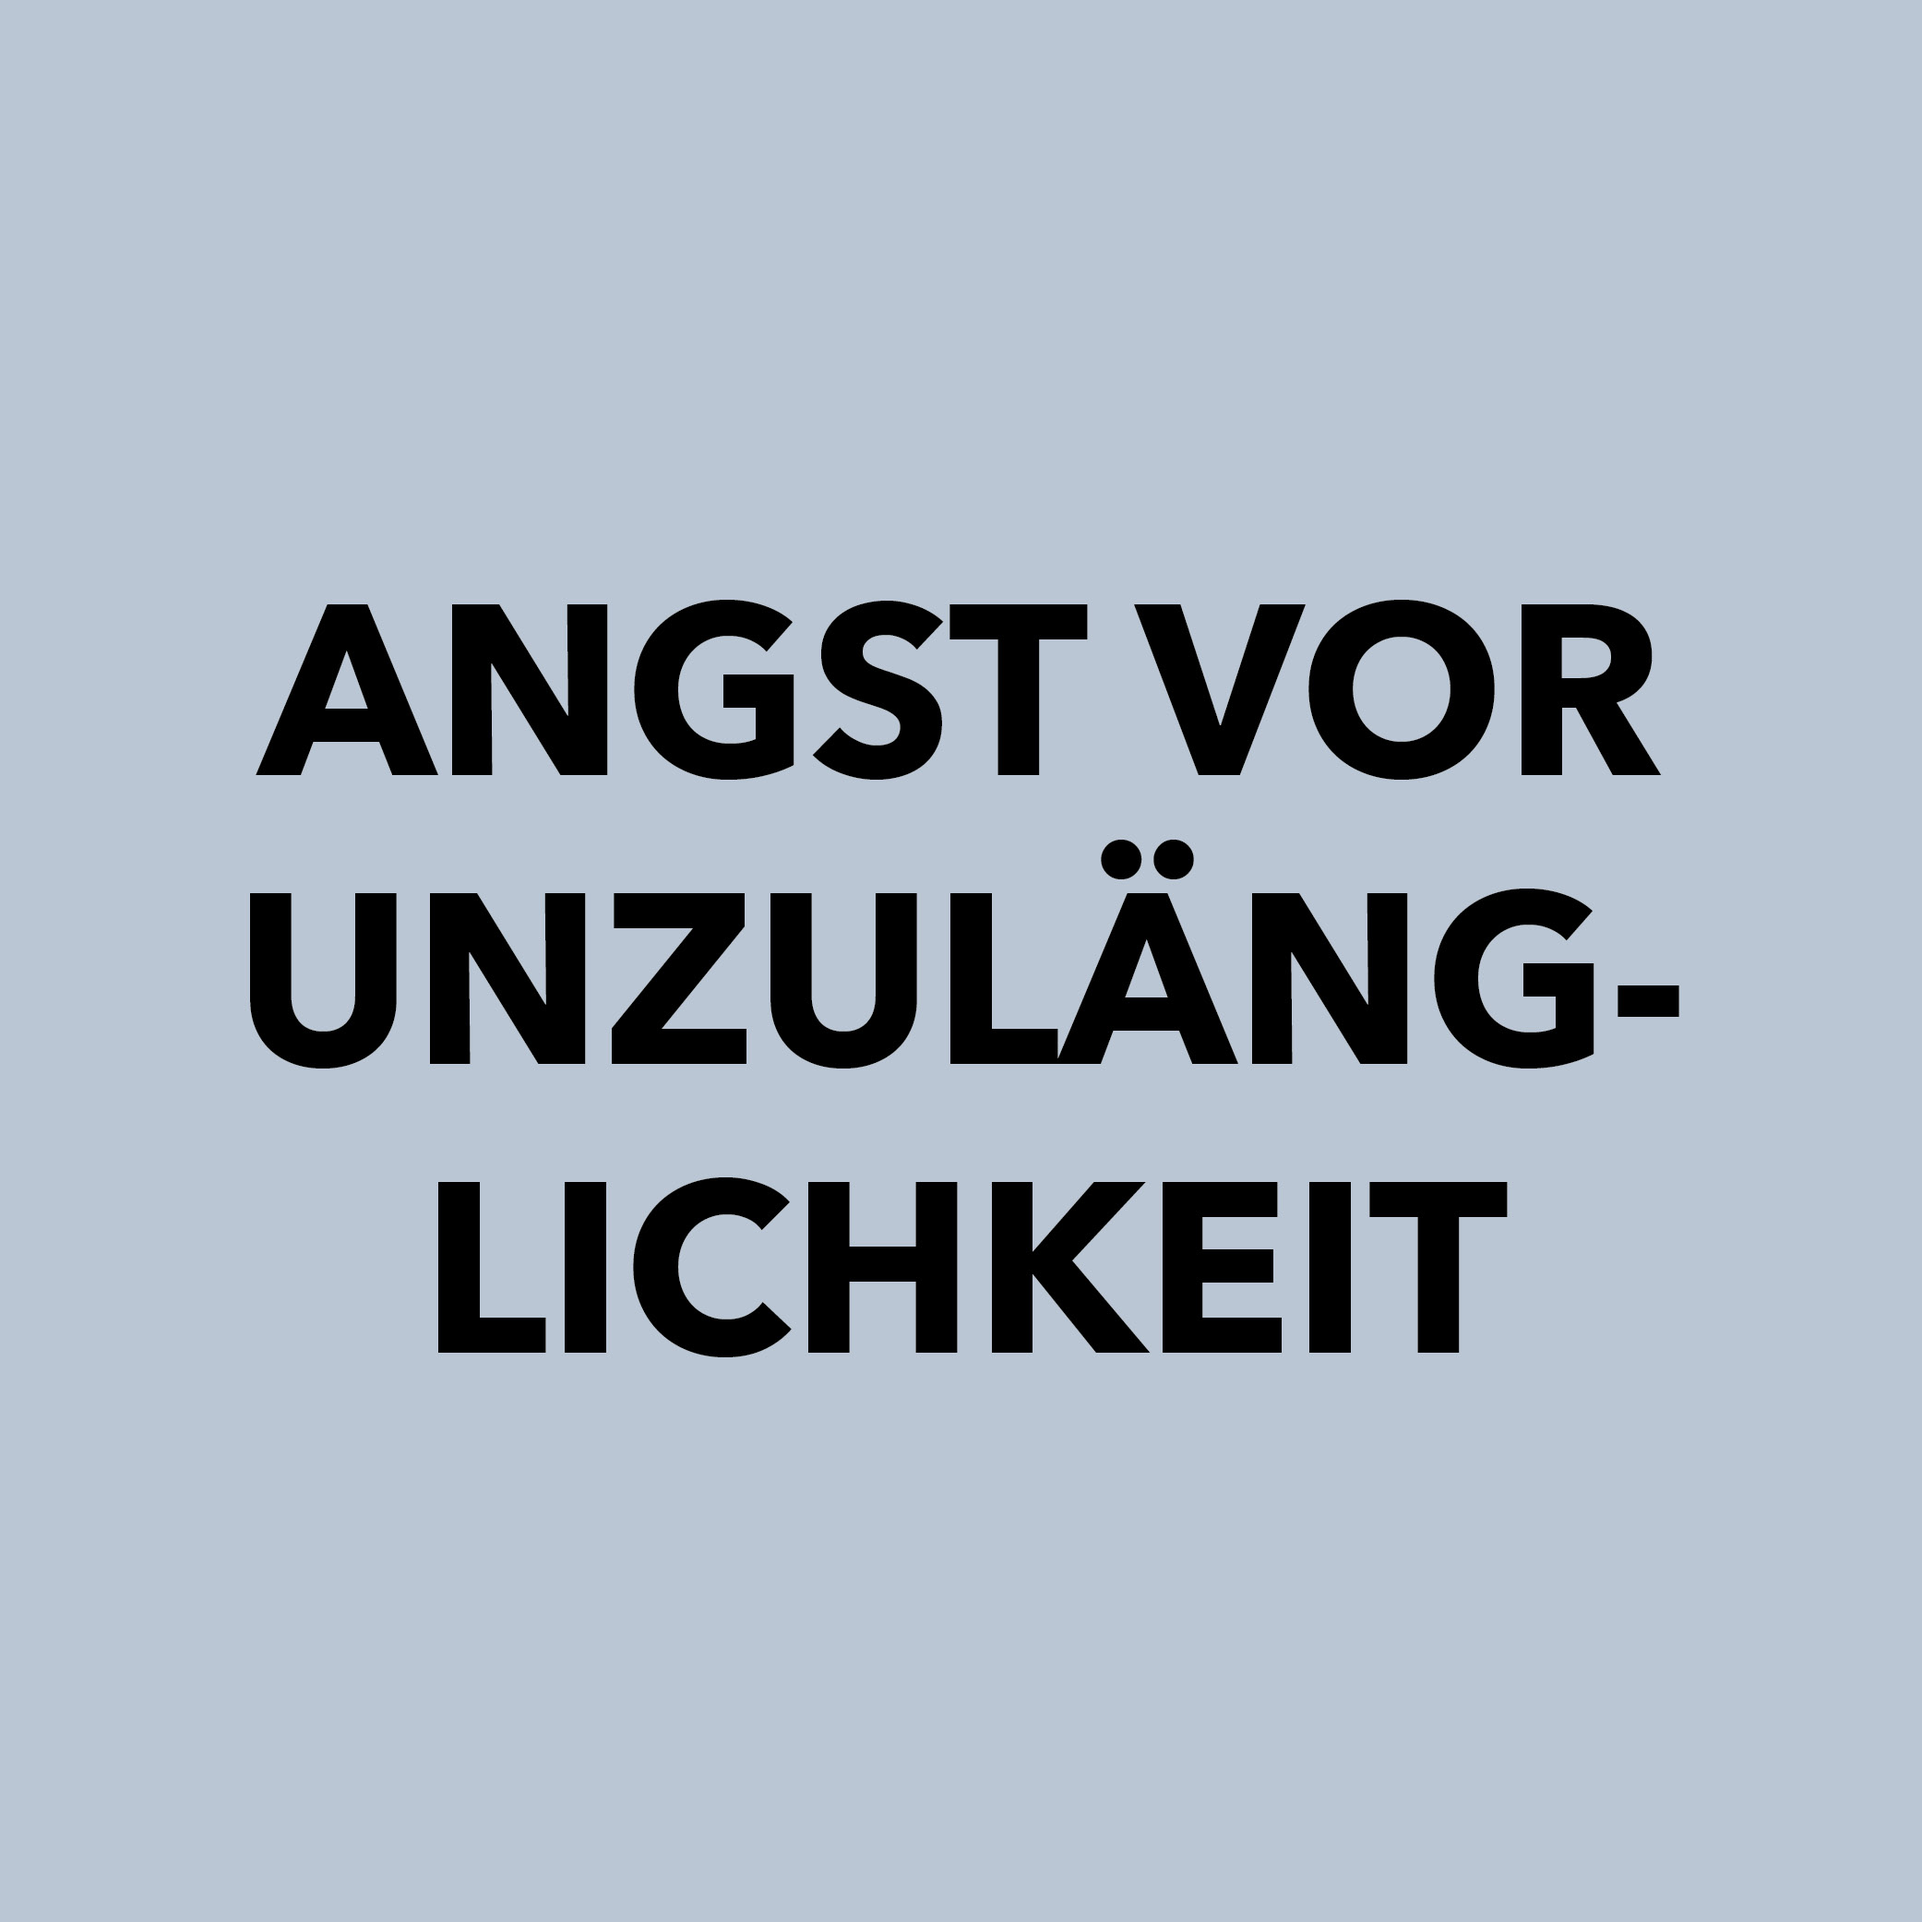
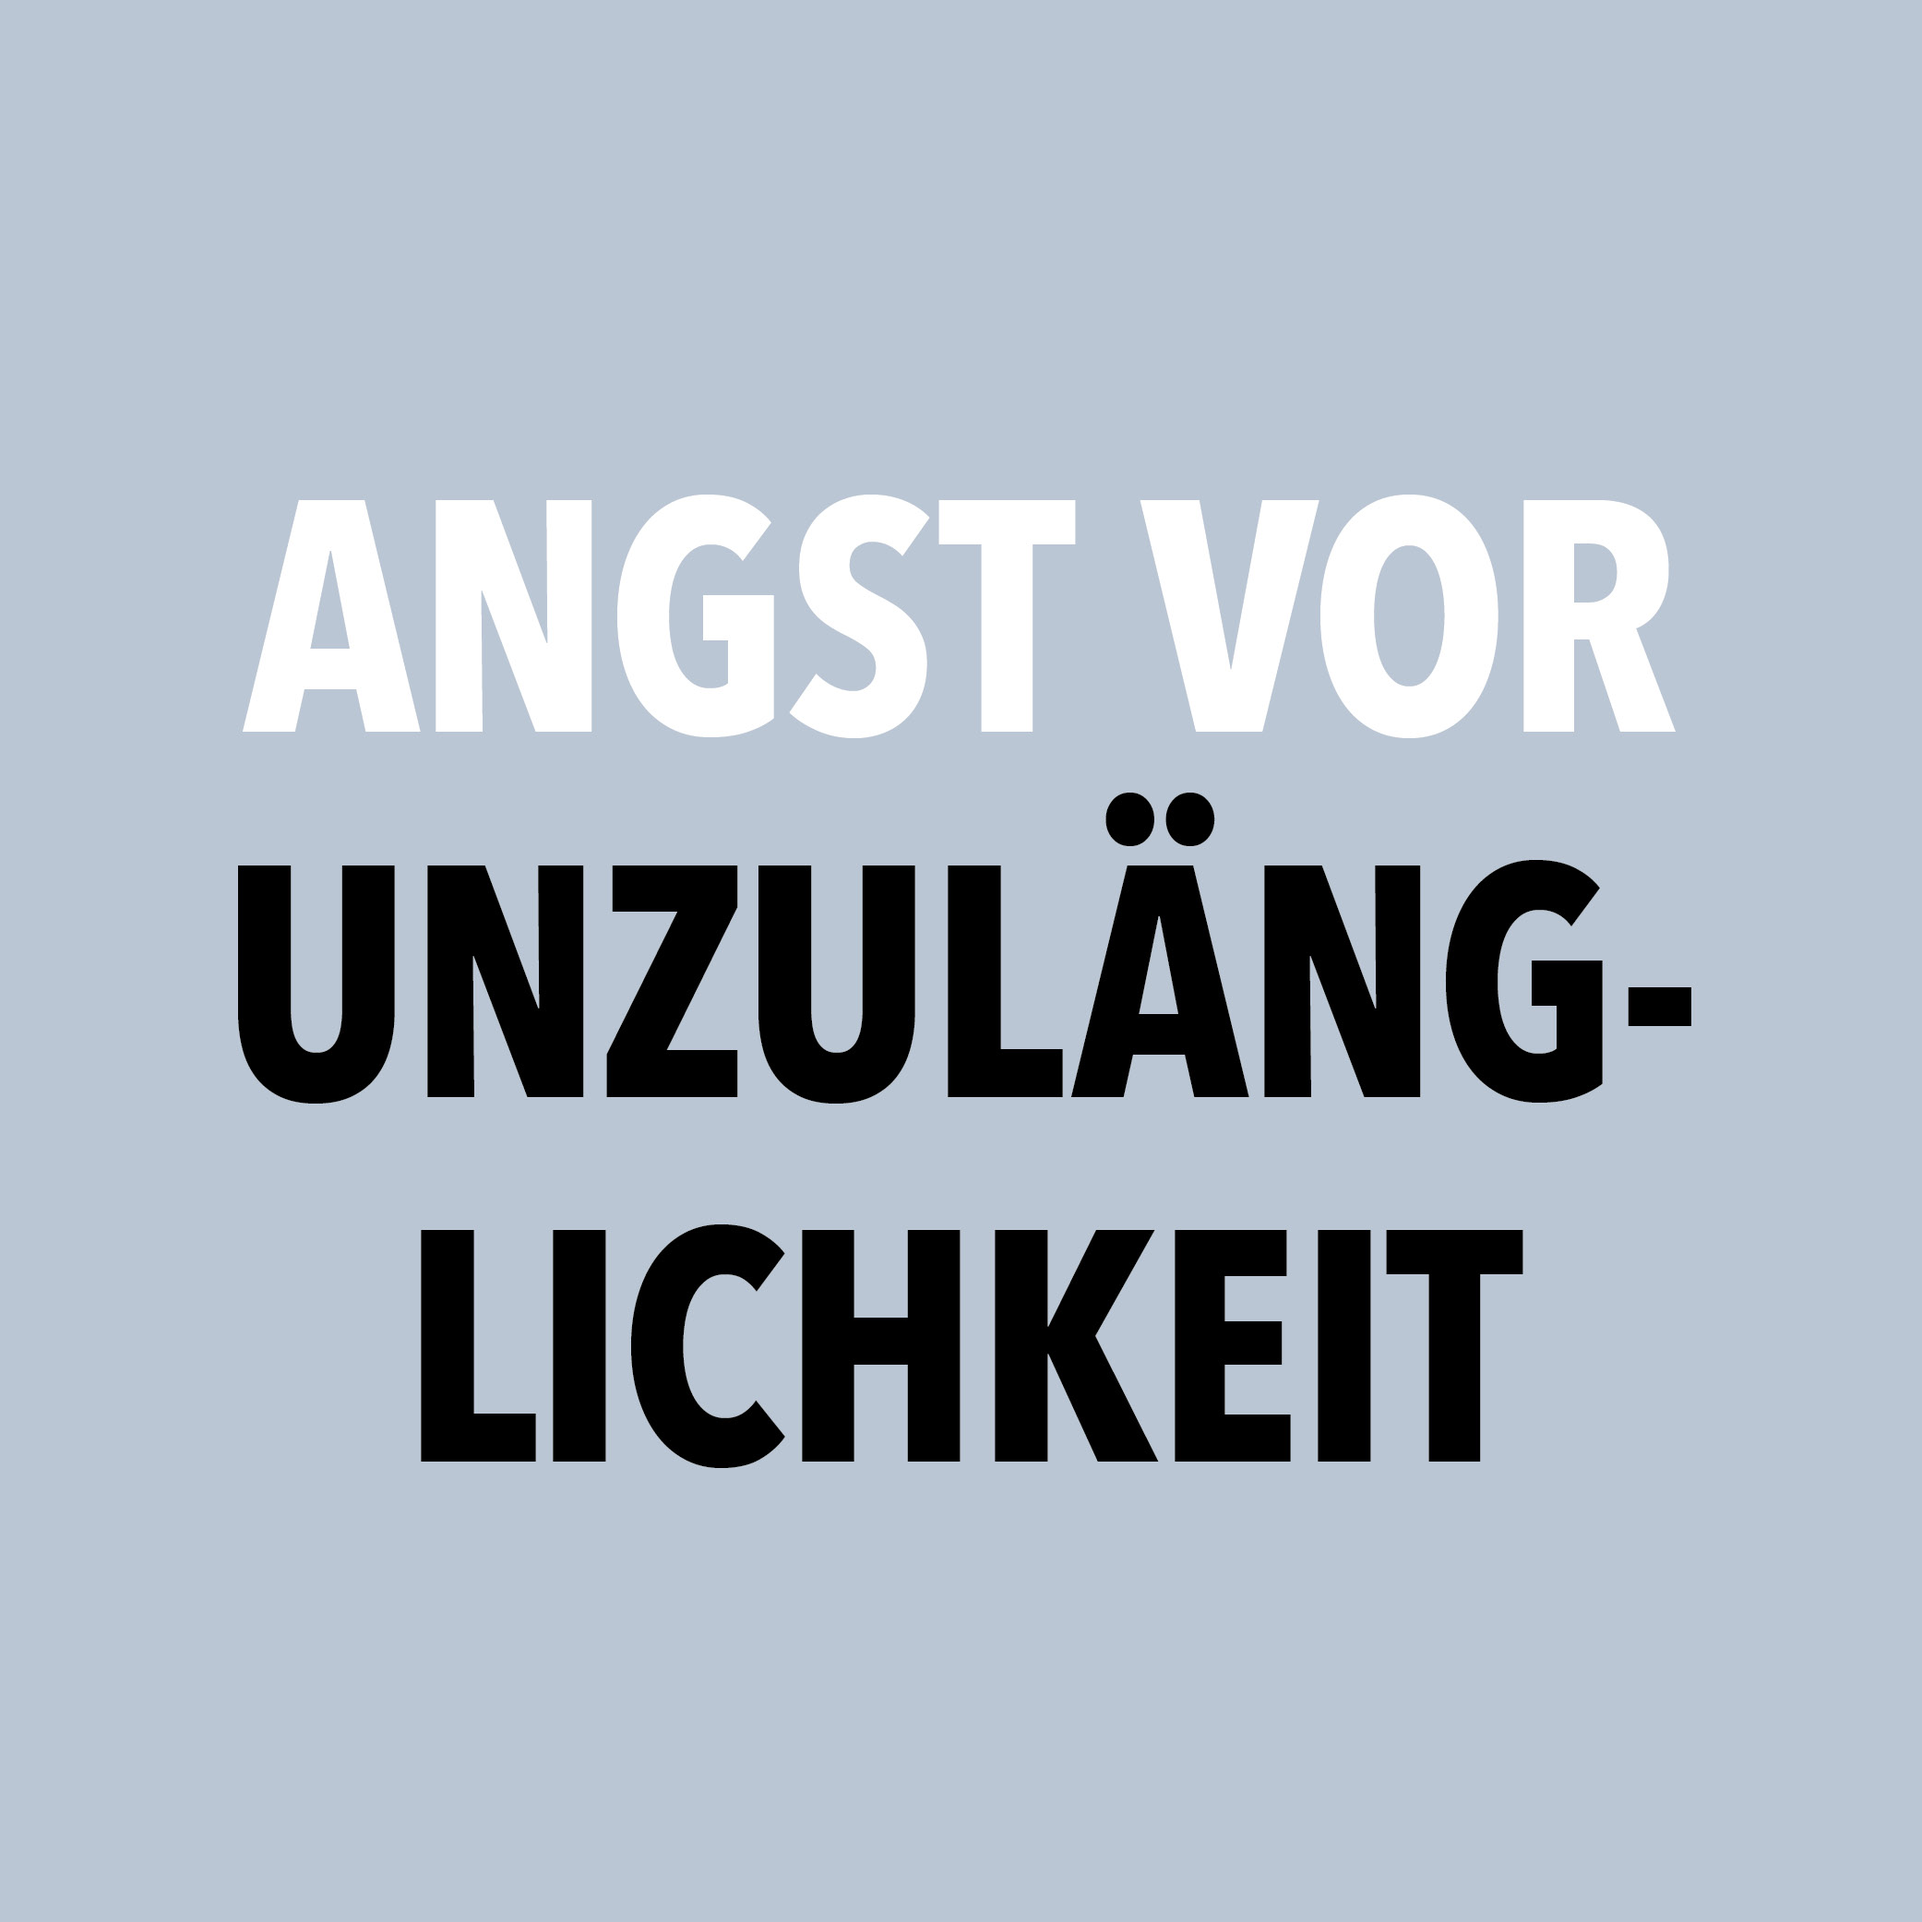
Add files via upload

Changed region(s): [[0.1248, 0.2496, 0.9049, 0.7801], [0.1248, 0.2496, 0.5617, 0.4057]]

diff --git a/style.css b/style.css
@@ -3,25 +3,27 @@ background-color: #000000;
 }
 
 h1{
-    margin-left: 35%;
+    color: #ffffff;    
     display: inline-block;
-    font-size: 40px;
     font-family:arial; 
-    color: #ffffff;
-    
+    font-size: 40px;
+    text-align: center;
+    margin-left: 35%;
+    margin-right: 30%;
+    text-align: center;
 }
 p{
+    color: #ffffff;
+    display: inline-block;
+    font-family:arial; 
+    font-size: 15px;
     margin-left: 20%;
     margin-right: 20%;
-    display: inline-block;
-    font-size: 15px;
-    font-family:arial; 
     text-align: center;
-    color: #ffffff;
 }
 img{
-    max-width: 100%;
     max-height: 100%;
+    max-width: 100%;
 }
 /*left*/
 .left-container{
@@ -29,10 +31,10 @@ img{
     position: relative;
 }
 .carousel-container{
-    width: 375px;
     height: 350px;
-    position: relative;
     overflow: hidden;
+    position: relative;
+    width: 375px;
 }
 
 .carousel-slide{
@@ -41,37 +43,39 @@ img{
 }
 
 #prevBtn{
-    margin-left: 45%;
-    font-size: 10px;
-    color: black;
-    width: 10%;
-    height:15%;
     border-radius: 50%;
-    opacity: 0.9;
+    color: black;
     cursor: pointer;
+    font-size: 10px;
+    height:15%;
+    margin-left: 45%;
+    margin-bottom: 10px;
+    opacity: 0.9;
+    width: 10%;
 }
 button:hover{
-    background-color:#ffd000;
+    background-color:#fff2c5;
     
 }
 #nextBtn{
-        z-index: 10;
-    margin-left: 45%;
-    font-size: 10px;
-    color: black;
-    width: 10%;
-    height:10%;
+    z-index: 10;
     border-radius: 50%;
-    opacity: 0.9;
+    color: black;
     cursor: pointer;
+    font-size: 10px;
+    height:10%;
+    margin-left: 45%;
+    margin-top: 10px;
+    opacity: 0.9;
+    width: 10%;
 }
 .middleCarousel-container{
-    width: 375px;
-    height: 350px;
     /* margin-left: 10%; */
     border: 0px solid black;
-    position: relative;
+    height: 350px;
     overflow: hidden;
+    position: relative;
+    width: 375px;
     
 }
 
@@ -80,33 +84,36 @@ button:hover{
 }
 
 #middlePrevBtn{
-    z-index: 10;
-    margin-left: 45%;
-    font-size: 10px;
-    color: black;
-    width: 10%;
-    height:10%;
     border-radius: 50%;
-    opacity: 0.9;
+    color: black;
     cursor: pointer;
+    font-size: 10px;
+    height:10%;
+    margin-left: 45%;
+    margin-bottom: 10px;
+    opacity: 0.9;
+    width: 10%;
+    z-index: 10;
+
 } 
 #middleNextBtn{
-    z-index: 10;
-    margin-left: 45%;
-    font-size: 10px;
-    color: black;
-    width: 10%;
-    height:10%;
     border-radius: 50%;
-    opacity: 0.9;
+    color: black;
     cursor: pointer;
+    font-size: 10px;
+    height:10%;
+    margin-left: 45%;
+    margin-top: 10px;
+    opacity: 0.9;
+    width: 10%;
+    z-index: 10;
 }
 .rightCarousel-container{
-    width: 375px;
-    height: 350px;
     border: 0px solid black;
-    position: relative;
+    height: 350px;
     overflow: hidden;
+    position: relative;
+    width: 375px;
     
 }
 
@@ -115,22 +122,24 @@ button:hover{
 }
 
 #rightPrevBtn{
-    margin-left: 45%;
-    font-size: 10px;
-    color: black;
-    width: 10%;
-    height:10%;
     border-radius: 50%;
-    opacity: 0.9;
+    color: black;
     cursor: pointer;
+    font-size: 10px;
+    height:10%;
+    margin-bottom: 10px;
+    margin-left: 45%;
+    opacity: 0.9;
+    width: 10%;
 }
 #rightNextBtn{
-    margin-left: 45%;
-    font-size: 10px;
-    color: black;
-    width: 10%;
-    height:10%;
     border-radius: 50%;
-    opacity: 0.9;
+    color: black;
     cursor: pointer;
+    font-size: 10px;
+    height:10%;
+    margin-left: 45%;
+    margin-top: 10px;
+    opacity: 0.9;
+    width: 10%;
 }

diff --git a/index.html b/index.html
@@ -10,9 +10,7 @@
 </head>
 <body>
     <h1>UNSICHTBARE ÄNGSTE</h1>
-    <p>Asitia solupta volenis quides sit quae voluptae pliqui ulpa nam harum quo 
-        doluptatiis que reptas eatas is et ad magnimpor rem harchic ipitintiis ditas volupta atibusam qui blabo. 
-        Ut modio et, conserchic totassimet et eum quia susciendit fugiati odis aborumquid eatur as anditatio m</p>
+    <p>Unsichtbare Ängste“ behandelt die Thematik der Angststöungen und die Erfahrungen betroffener Personen in der Gesellschaft. Angststörung ist ein Sammelbegriff für mit Angst verbundene psychische Störungen, deren gemeinsames Merkmal exzessive, übertriebene Angstreaktionen beim Fehlen einer wirklichen äußeren Bedrohung sind. Oft wird diese psychische Erkrankung in der Gesellschaft nicht ernst genommen, da sich Ängstste oft unsichtbar für das Umfeld äußern. Dieses Projekt soll die alltäglichen Ängste einer Betroffenen visualisieren und nicht Betroffenen dabei helfen sich in die Lage der Betroffen zu versetzen. </p>
     <ul style="overflow: hidden;overflow-x: hidden;width: 97%">
         <li style="float:left;padding-right: 5%;">
                 <button id="prevBtn"><i class='fas fa-arrow-up' style='font-size:25px;color:black;'></i></button>
